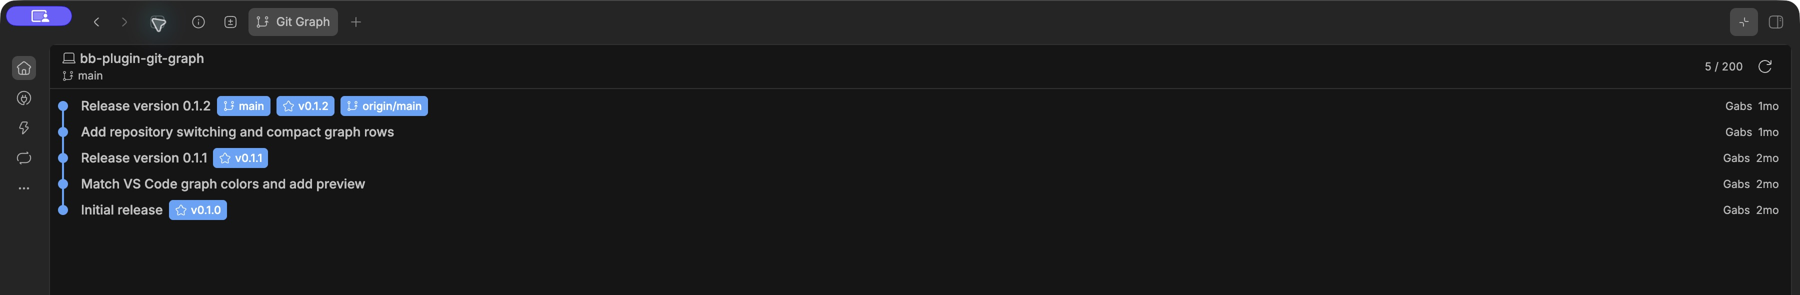
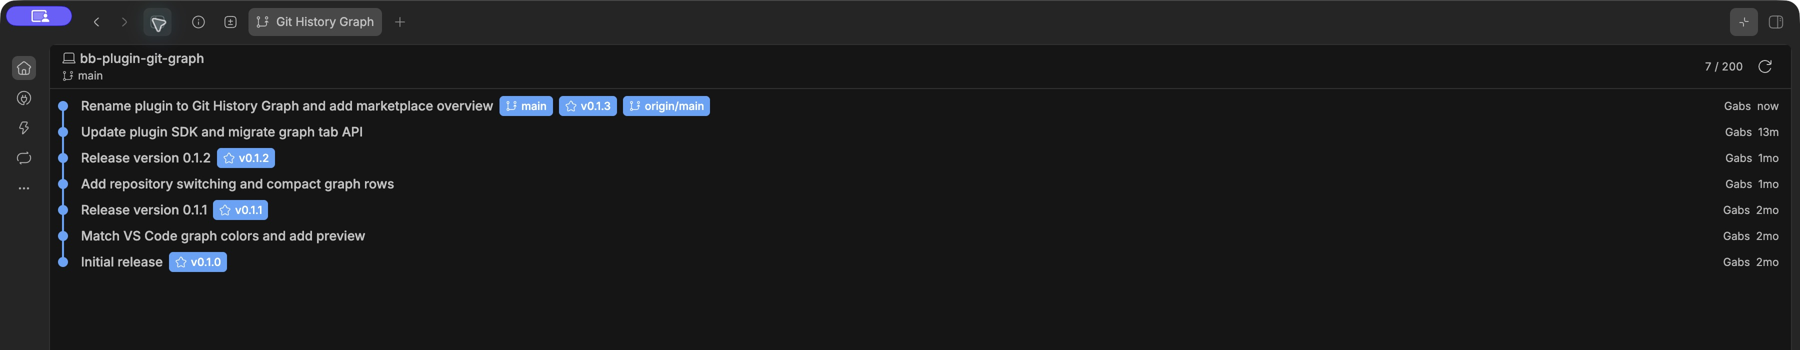
Use approved Git History Graph name and overview

diff --git a/overview/git-graph.md b/overview/git-graph.md
@@ -1,0 +1,17 @@
+## What you get
+
+Follow commit history beside the thread you are working in. Colored lanes show how commits connect, with labels for branches and tags. Each row includes the commit message, author, and relative time.
+
+The graph loads 50 commits at a time as you scroll, up to the newest 200 commits across local and remote refs. Refresh the panel to read the repository again.
+
+## How it works
+
+Open a thread backed by a Git repository and select **Graph** in the thread header. Git runs in that thread's environment, including environments on another connected machine.
+
+When additional repositories are configured for the workspace, use the repository selector to switch between them.
+
+Agents and terminals can inspect the same history with `bb git-graph show`.
+
+## Requirements
+
+Requires BB 0.47.1 or newer, Git in the thread's environment, and npm for installation from Git. No external account, API key, or paid service is required. The graph reads repository history without changing commits, branches, or files.
